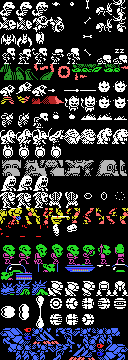
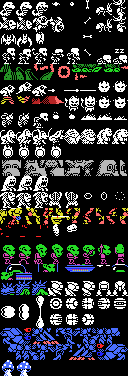
added drones/robots enemies to the moon biome, and started drawing the mushrooms

diff --git a/java/src/xspelunker2/GenerateSprites.java b/java/src/xspelunker2/GenerateSprites.java
@@ -40,6 +40,7 @@ public class GenerateSprites {
         extractAtlantisEnemySprites("src/autogenerated/enemy-sprites-atlantis");
         extractAtlantisSentinelSprites("src/autogenerated/enemy-sprites-atlantis-sentinel");
         extractMarsEnemySprites("src/autogenerated/enemy-sprites-mars");
+        extractMoonEnemySprites("src/autogenerated/enemy-sprites-moon");
         
         generateEnemySpritesDebug("src/autogenerated/enemy-sprites-debug");
     }
@@ -669,7 +670,54 @@ public class GenerateSprites {
             throw new Exception("More enemy sprites than the engine can handle!");
         }
         
-        System.out.println("extractAtlantisEnemySprites: " + data.size());
+        System.out.println("extractMarsEnemySprites: " + data.size());
+        Z80Assembler.dataToBinary(data, outputPath + ".bin");   
+        ZX0Wrapper.main(outputPath + ".bin", outputPath + ".zx0", true, false);
+    }
+    
+    
+    public static void extractMoonEnemySprites(String outputPath) throws Exception
+    {
+        BufferedImage sourceImage = ImageIO.read(new File("data/enemies.png"));
+        List<Integer> data = new ArrayList<>();
+        
+        // bullet (0):
+        data.addAll(extractSprite(sourceImage, 64, 0, 15));  // bullet
+        data.addAll(extractSprite(sourceImage, 112, 192, 15));  // water bullet pop
+        
+        // filler (2)
+        for(int i = 0;i<32 * 18;i++) {
+            data.add(0);
+        }
+        
+        // robot (20):
+        data.addAll(extractSprite(sourceImage, 96, 280, 15));  // robot idle
+        data.addAll(extractSprite(sourceImage, 48, 280, 15));  // robot right
+        data.addAll(extractSprite(sourceImage, 64, 280, 15));
+        data.addAll(extractSprite(sourceImage, 80, 280, 15));
+        data.addAll(extractSpriteFlipped(sourceImage, 48, 280, 15));  // robot left
+        data.addAll(extractSpriteFlipped(sourceImage, 64, 280, 15));
+        data.addAll(extractSpriteFlipped(sourceImage, 80, 280, 15));
+        // drone (27):
+        data.addAll(extractSprite(sourceImage, 48, 296, 15));  // drone
+        data.addAll(extractSprite(sourceImage, 64, 296, 15));
+        data.addAll(extractSprite(sourceImage, 80, 296, 15));
+        data.addAll(extractSprite(sourceImage, 96, 296, 15));
+        data.addAll(extractSprite(sourceImage, 112, 296, 15));
+        data.addAll(extractSprite(sourceImage, 48, 312, 15));
+        data.addAll(extractSprite(sourceImage, 64, 312, 15));
+        data.addAll(extractSprite(sourceImage, 80, 312, 15));
+        
+        // filler (35)
+        for(int i = 0;i<32 * 3;i++) {
+            data.add(0);
+        }
+        
+        if (data.size() > 40 * 32) {
+            throw new Exception("More enemy sprites than the engine can handle!");
+        }
+        
+        System.out.println("extractMoonEnemySprites: " + data.size());
         Z80Assembler.dataToBinary(data, outputPath + ".bin");   
         ZX0Wrapper.main(outputPath + ".bin", outputPath + ".zx0", true, false);
     }
